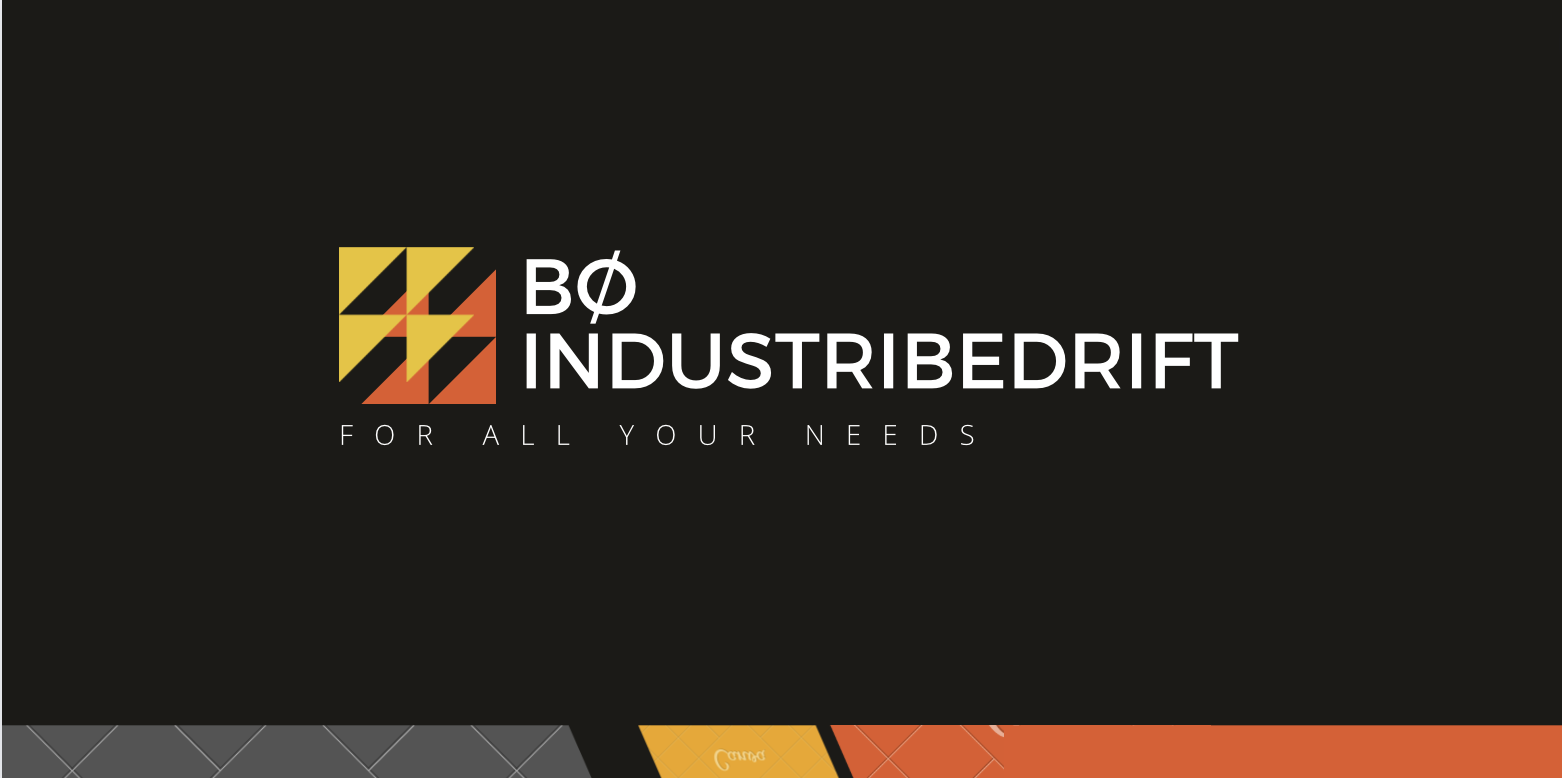
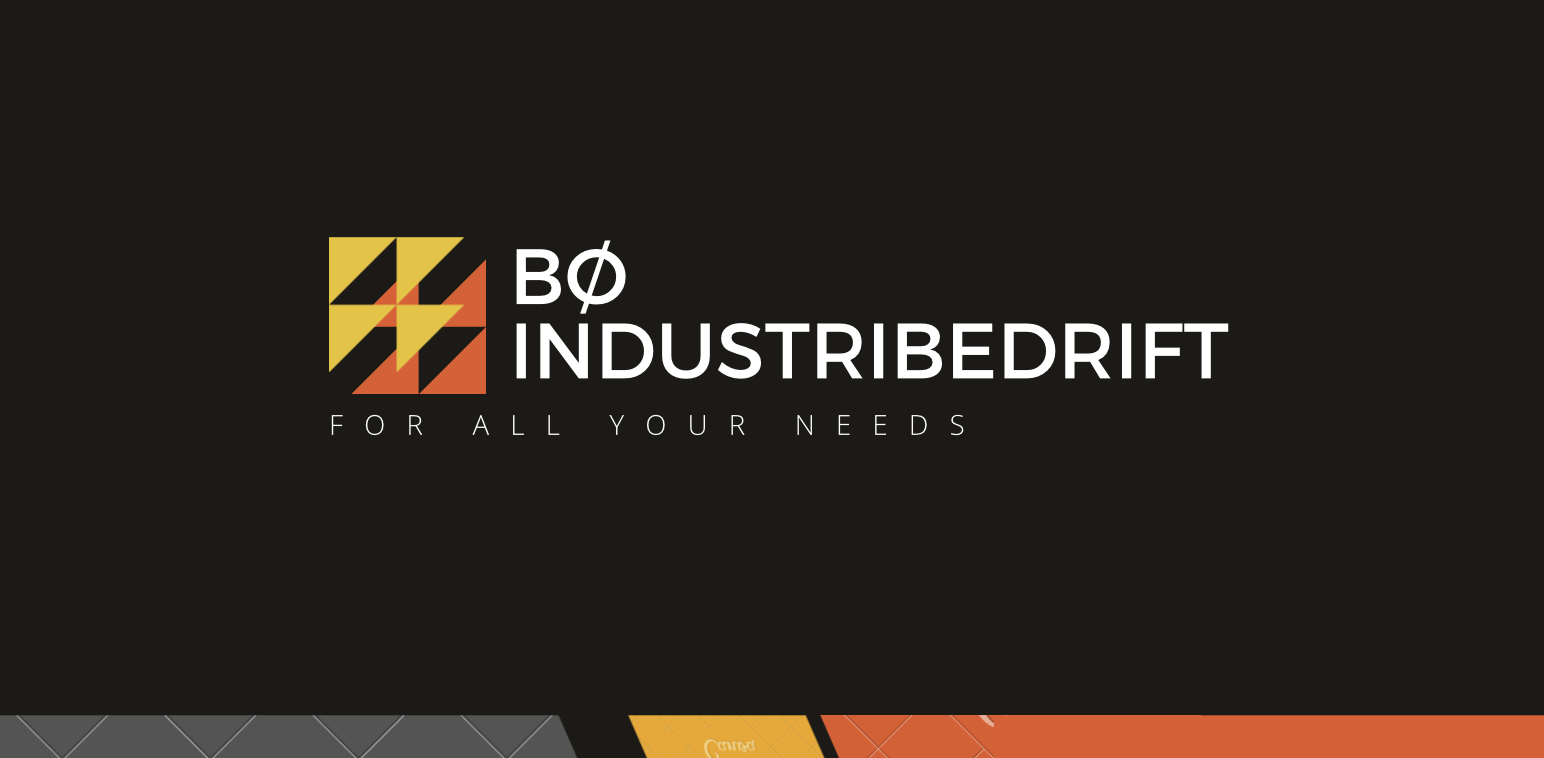
changed background etc

diff --git a/Style.css b/Style.css
@@ -1,5 +1,5 @@
 html {
-	background-image: url('background.jpg');
+	background-image: url('img.jpeg');
 }
 body {
 
@@ -10,18 +10,18 @@ body {
 }
 
 #container {
-	background-color:#3e91c1;
+	background-color:black;
 	width: 800px;
 	margin-left:auto;
 	margin-right:auto;
-	background-image: url('background.jpg');
+	background-image: 
 
 
 
 }
 
 #header {
-	background-image: url('background.jpg');
+	background-image:; 
 	color:white;
 	text-align:center;
 	padding: 10px;
@@ -46,7 +46,7 @@ h1, h2, h3 h4 {
 }
 
 #nav {
-width: 160px;
+width: 170px;
 float:left;
 color:white;
 
@@ -74,7 +74,7 @@ a {
 	width: 600px;
 	float:right;
 	color:white;
-	background-color:6A94A8;
+	background-color:;
 }
 
 #footer {

diff --git a/Omoss.html b/Omoss.html
@@ -1,7 +1,7 @@
 
 
 <html>
-<head> <title>Testing shit out</title>
+<head> <title>Bø Indurstribedrift</title>
 <link rel="stylesheet" type="text/css" href="Style.css" />
 
 </head>
@@ -12,7 +12,7 @@
 
 	 <div id="container">
 	 	<div id="header">
-	 		<image src="bø.png" width=789 />
+			<image src="banner.png" width=790 />
 
 	 </div>
 	 <div id="content">
@@ -32,7 +32,7 @@
 	 			</div>
 	 			<style>
 .vl {
-  border-right: 2px solid black;
+  border-right: 2px solid white;
   height: 550px;
 }
 </style>

diff --git a/Tjenester.html b/Tjenester.html
@@ -1,7 +1,7 @@
 
 
 <html>
-<head> <title>Testing shit out</title>
+<head> <title>Bø Indurstribedrift</title>
 <link rel="stylesheet" type="text/css" href="Style.css" />
 
 </head>
@@ -12,7 +12,7 @@
 
 	 <div id="container">
 	 	<div id="header">
-	 		<image src="bø.png" width=789 />
+			<image src="banner.png" width=790 />
 
 	 </div>
 	 <div id="content">
@@ -32,7 +32,7 @@
 	 			</div>
 	 			<style>
 .vl {
-  border-right: 2px solid black;
+  border-right: 2px solid white;
   height: 550px;
 }
 </style>

diff --git a/anmeldelse.html b/anmeldelse.html
@@ -1,7 +1,7 @@
 
 
 <html>
-<head> <title>Testing shit out</title>
+<head> <title>Bø Indurstribedrift</title>
 <link rel="stylesheet" type="text/css" href="Style.css" />
 
 </head>
@@ -15,7 +15,7 @@
    <div id="container">
     <div id="header">
       
-      <image src="bø.png" width=789 />
+      <image src="banner.png" width=790 />
 
    </div>
 

diff --git a/index.html b/index.html
@@ -15,7 +15,7 @@
 	 <div id="container">
 	 	<div id="header">
 	 		
-	 		<image src="banner.png" width=789 />
+	 		<image src="banner.png" width=790 />
 
 	 </div>
 
